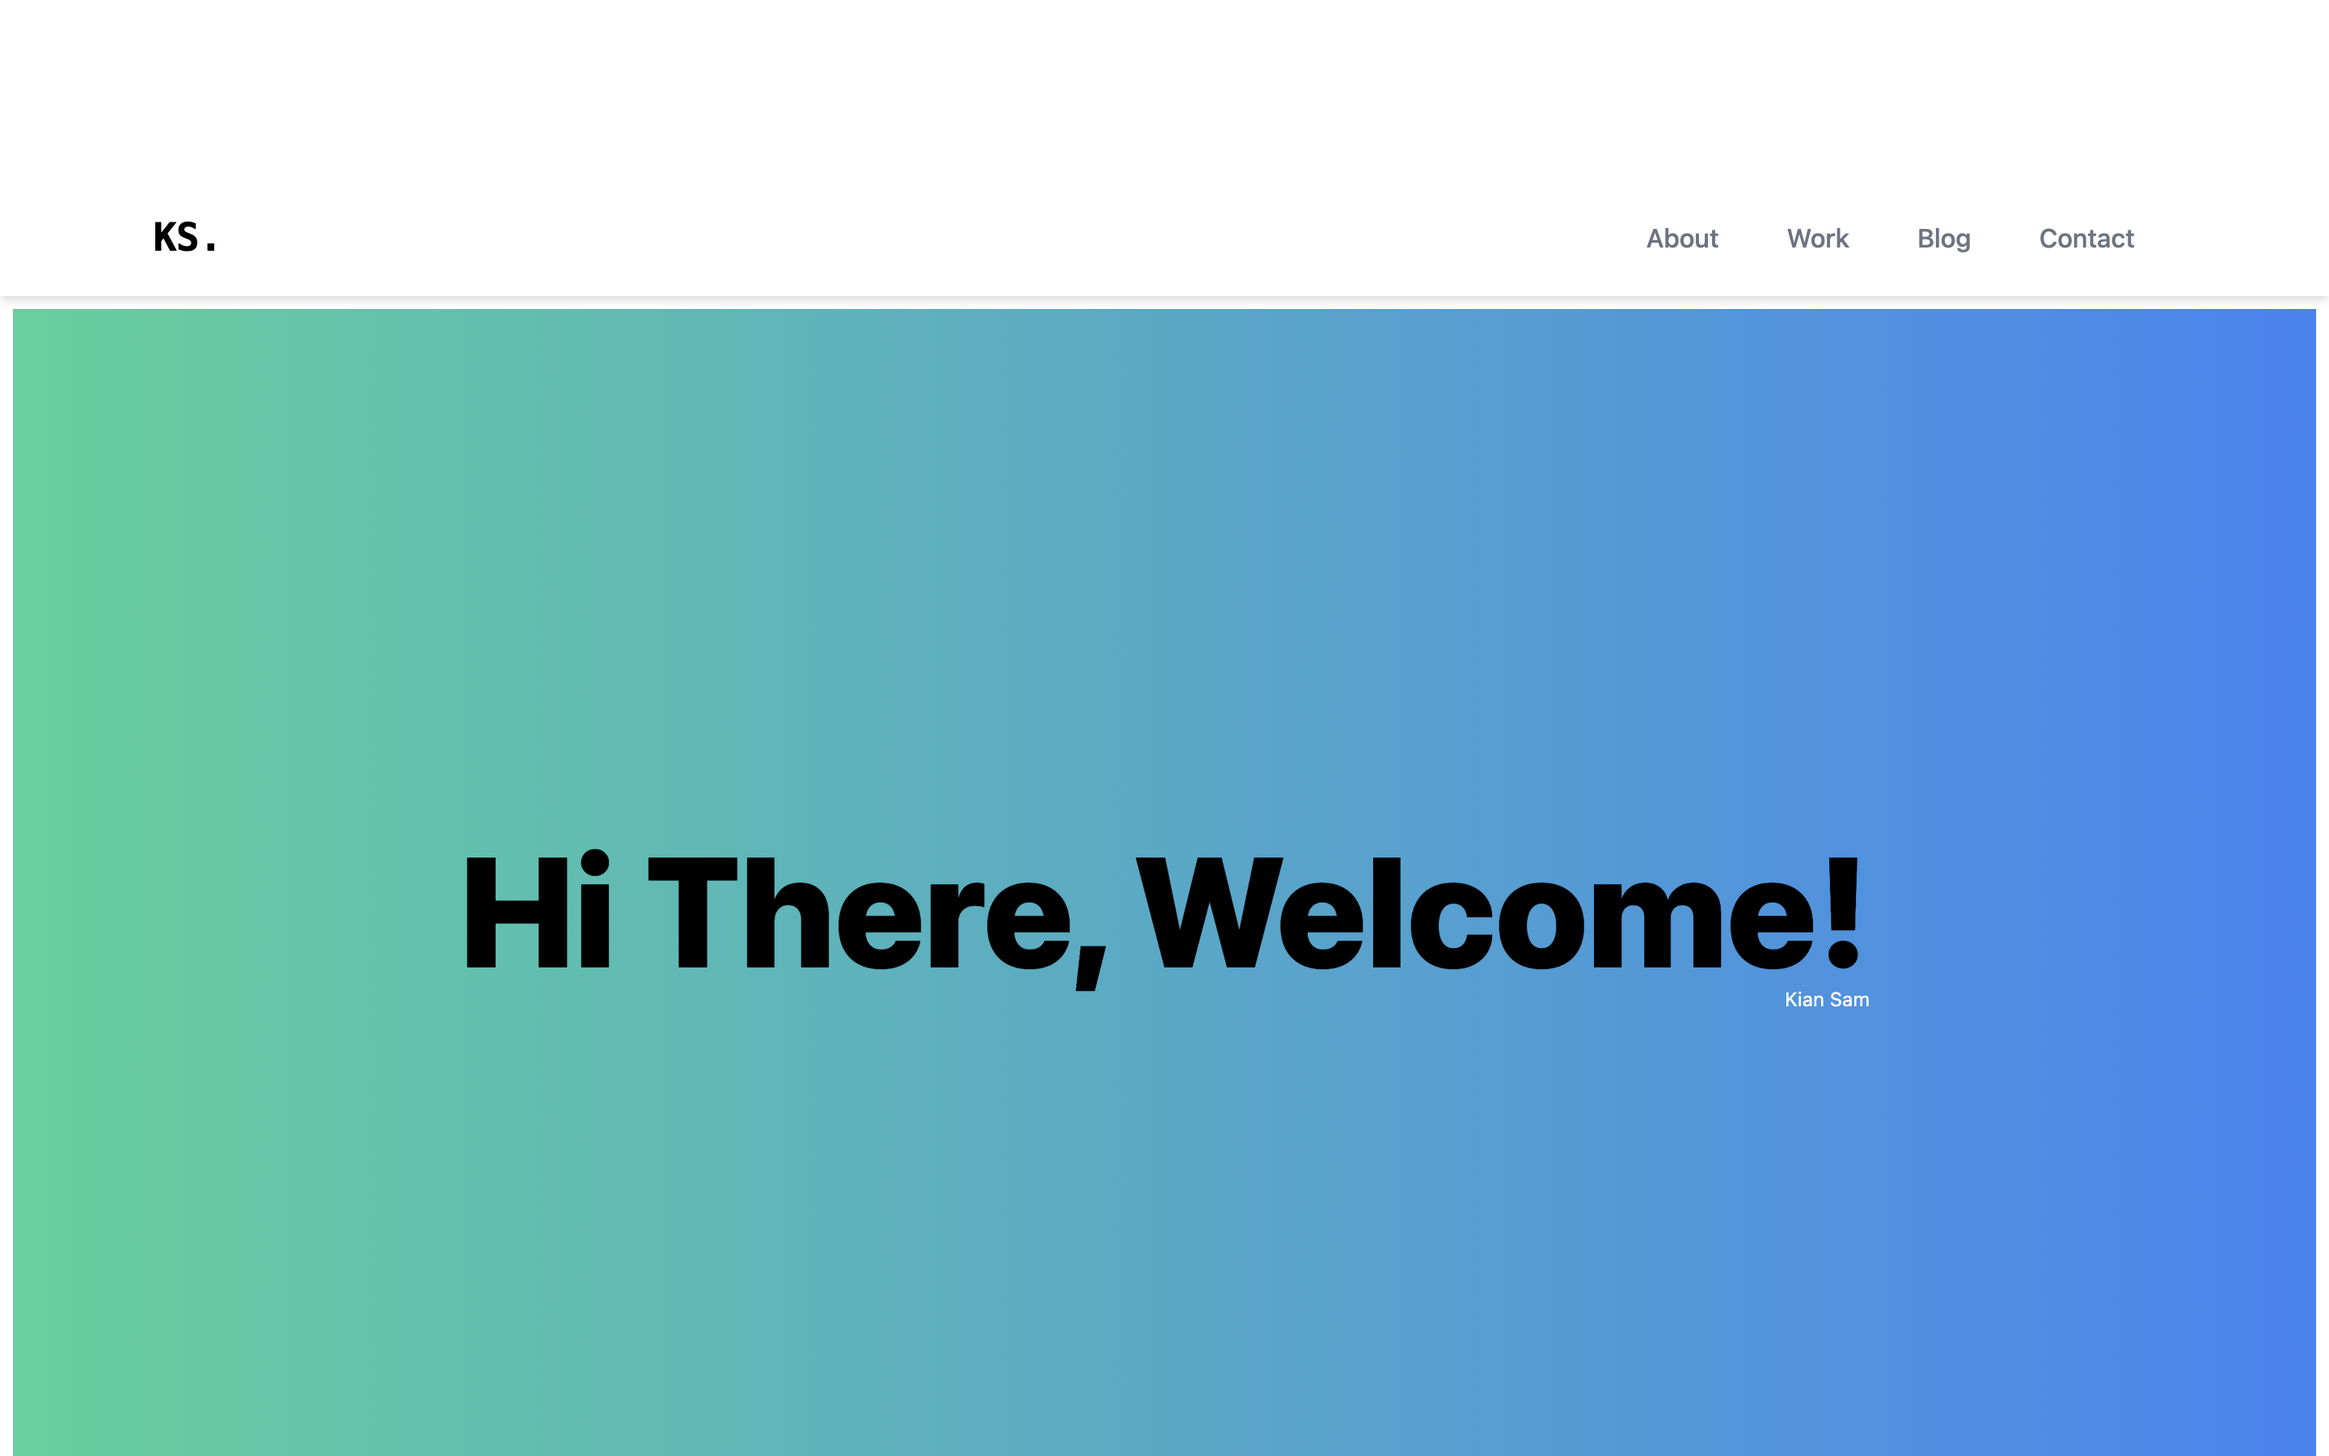
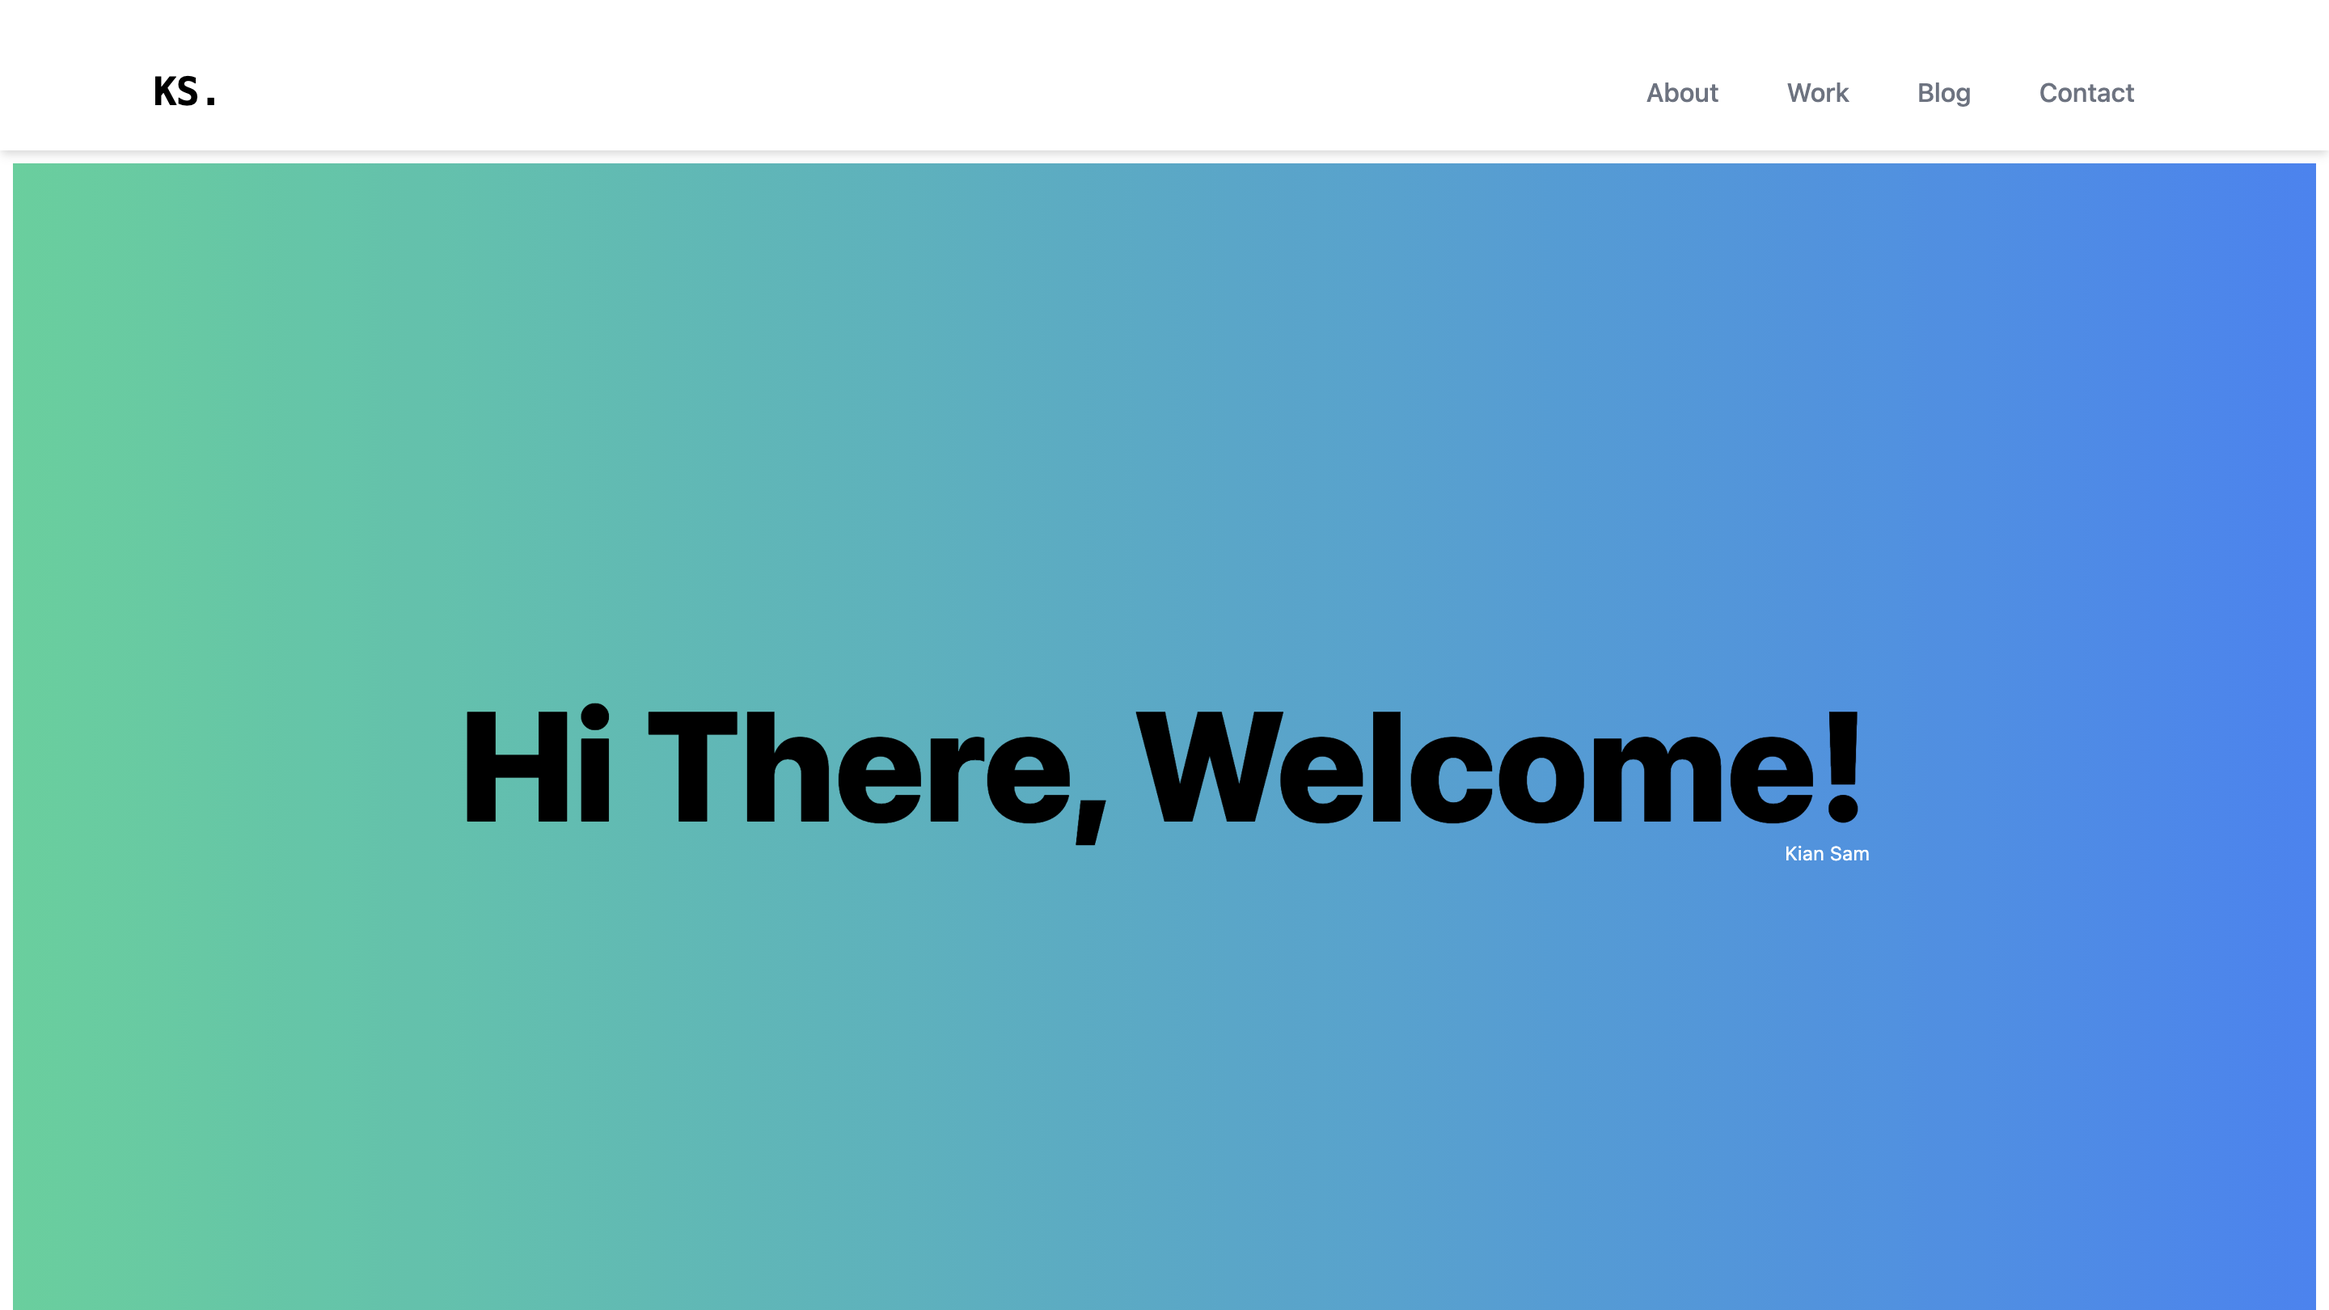
Image fixed

diff --git a/components/Work.js b/components/Work.js
@@ -2,10 +2,11 @@ import ProjectsLeft from "./ProjectsLeft";
 import ProjectsRight from "./ProjectsRight";
 import Fade from "react-reveal/Fade";
 import Projects from "./Projects";
+import Projects1 from "./Projects1";
 
 function WorkComponent() {
   return (
-    <div className=" py-6 bg-gray-50 justify-center bg-back-svg mx-auto mx-2">
+    <div className=" py-6 bg-gray-50 justify-center bg-back-svg mx-2">
       <div className="block justify-center">
         <div className="my-10">
           <h1 className="text-center text-4xl font-bold font-mono">
@@ -15,7 +16,7 @@ function WorkComponent() {
       </div>
       <div className="lg:hidden my-12">
         <Fade left ssrFadeout duration={1000}>
-          <div className="pb-10">
+          <div className="pb-6">
             <ProjectsLeft
               name={"Spotify Home-page Clone"}
               desc={
@@ -31,7 +32,7 @@ function WorkComponent() {
           </div>
         </Fade>
         <Fade right ssrFadeout duration={1000}>
-          <div className="flex justify-end pb-10">
+          <div className="flex justify-end pb-6">
             <ProjectsRight
               name={"Hulu/Imdb Clone"}
               desc={
@@ -47,11 +48,11 @@ function WorkComponent() {
           </div>
         </Fade>
         <Fade left ssrFadeout duration={1000}>
-          <div className="pb-10">
+          <div className="pb-6">
             <ProjectsLeft
               name={"Disney-Plus Clone"}
               desc={
-                "Responsive Disney plus clone, using Reactjs, Styled-components, and Firebase"
+                "Responsive Disney plus clone, using Reactjs, Styled-components,Firestore, and Firebase."
               }
               src={"/images/Disney.png"}
               color={"bg-transparent"}
@@ -63,7 +64,7 @@ function WorkComponent() {
           </div>
         </Fade>
         <Fade right ssrFadeout duration={1000}>
-          <div className="flex justify-end pb-10">
+          <div className="flex justify-end pb-6">
             <ProjectsRight
               name={"My Portfolio"}
               desc={
@@ -79,6 +80,13 @@ function WorkComponent() {
           </div>
         </Fade>
       </div>
+
+
+
+      {/* a */}
+
+
+
       <div className="hidden lg:block my-12 mx-auto justify-center w-[50%]">
         <Fade left ssrFadeout duration={1500}>
           <div className="flex pb-5 justify-start">
@@ -97,7 +105,7 @@ function WorkComponent() {
 
         <Fade right ssrFadeout duration={1500}>
           <div className="flex pb-5 justify-end">
-            <Projects
+            <Projects1
               name={"Hulu/Imdb Clone"}
               desc={
                 "Responsive Hulu/Imdb Clone, made using Nextjs, and tailwindcss. (themoviedb)"
@@ -125,7 +133,7 @@ function WorkComponent() {
         </Fade>
         <Fade right ssrFadeout duration={1500}>
           <div className="flex pb-5 justify-end">
-            <Projects
+            <Projects1
               name={"My Portfolio"}
               desc={
                 "Responsive portfolio made using, Nextjs, Tailwindcss, and react-reveal."

diff --git a/components/Footer.js b/components/Footer.js
@@ -74,6 +74,7 @@ function Footer() {
                   <a
                     className="hover:text-white hover:underline transition-colors duration-200"
                     target="_blank"
+                    rel="noreferrer"
                   >
                     Instagram
                   </a>
@@ -84,6 +85,7 @@ function Footer() {
                   <a
                     className="hover:text-white hover:underline transition-colors duration-200"
                     target="_blank"
+                    rel="noreferrer"
                   >
                     Linked In
                   </a>
@@ -94,6 +96,7 @@ function Footer() {
                   <a
                     className="hover:text-white hover:underline transition-colors duration-200"
                     target="_blank"
+                    rel="noreferrer"
                   >
                     Twitter
                   </a>
@@ -104,6 +107,7 @@ function Footer() {
                   <a
                     className="hover:text-white hover:underline transition-colors duration-200"
                     target="_blank"
+                    rel="noreferrer"
                   >
                     Github
                   </a>
@@ -115,10 +119,10 @@ function Footer() {
       </div>
       <div className="group flex mx-auto text-center justify-center items-center py-2 mt-16 mb-8">
         <Jello ssrFadeout>
-          <h3 className="text-gray-500 text-xs select-none">Made With love </h3>{" "}
+          <h3 className="text-white text-xs select-none">Made With love </h3>{" "}
           <svg
             xmlns="http://www.w3.org/2000/svg"
-            className="h-5 w-5 flex-shrink-0 px-1 group-hover:text-red-700 flex"
+            className="h-5 w-5 flex-shrink-0 px-1 text-white group-hover:text-red-600 flex"
             viewBox="0 0 20 20"
             fill="currentColor"
           >
@@ -128,7 +132,7 @@ function Footer() {
               clipRule="evenodd"
             />
           </svg>
-          <h3 className="text-gray-500 text-xs select-none">
+          <h3 className="text-white text-xs select-none">
             by <i>KianSam</i>.
           </h3>
         </Jello>

diff --git a/components/About.js b/components/About.js
@@ -6,18 +6,16 @@ function AboutComponent() {
     <div className="w-screen py-6 bg-gray-50 justify-center">
       <div className="block justify-center">
         <div className="flex justify-center mb-16">
-          <div className="mt-8 flex items-center justify-center bg-gradient-to-b from-purple-500 via-pink-500 to-blue-400 rounded-full w-[96px] h-[96px]">
-            <div className="bg-white rounded-full p-[5px]">
-              <img
-                src="/images/1.png"
-                className="rounded-full flex"
-                alt="Me"
-                width="80"
-                height="80"
-              />
-            </div>
+          <div className="mt-8 flex items-center justify-center rounded-full w-[96px] h-[96px] p-[1px] border-[4px] border-blue-400">
+            <Image
+              src="/images/1.png"
+              className="rounded-full"
+              alt="Me"
+              width={80}
+              height={80}
+            />
           </div>
-          <span className="mx-auto absolute translate-y-[134px] text-center font-medium text-xl mt-1">
+          <span className="mx-auto absolute translate-y-[134px] text-center font-medium text-xl mt-1 mb-1">
             Kian Sam
           </span>
         </div>
@@ -25,9 +23,9 @@ function AboutComponent() {
           <p className="text-center">
             I'm a Frontend web developer, Social Media Manager, and content
             creator. I've been coding for over 3 years now. I'm currently
-            working part-time as a social media manager for a HVAC company. I know
-            three languages, English, Persian, and Turkish professionally, and
-            I'm learning Dutch right now.
+            working part-time as a social media manager for a HVAC company. I
+            know three languages, English, Persian, and Turkish professionally,
+            and I'm learning Dutch right now.
           </p>
           <div className="flex justify-center mx-auto mt-6">
             <hr className="w-80 black" />

diff --git a/components/Projects1.js b/components/Projects1.js
@@ -1,30 +1,28 @@
 import Link from "next/link";
 import Image from "next/image";
 
-function ProjectsRight({ name, src, desc, color, hover, border }) {
+function Projects1({ name, src, desc, color, hover, border }) {
   return (
-    <div className="w-[70%] xs:w-[65%] sm:w-[50%] py-5 border-[1px] border-black border-r-0 px-6 shadow-md rounded-lg translate-x-[2px] md:translate-x-0  hover:shadow-2xl bg-white">
+    <div className="w-[350px] xl:w-[450px] py-4 border-[1px] border-black  px-4 shadow-md rounded-lg transition-all duration-75 ease-in-out hover:shadow-2xl bg-white">
       <h1 className="flex-1 text-lg mx-auto justify-center font-medium pb-1">
         {name}
       </h1>
       <div className="flex m-1">
-        <div className="flex flex-col">
-          <Image
-            className="justify-start"
-            src={`${src}`}
-            alt="Project"
-            height={220}
-            width={360}
-          />
-        </div>
+        <Image
+          className="justify-start"
+          src={`${src}`}
+          alt="Project"
+          height={220}
+          width={360}
+        />
         <p
           className="items-center my-auto
-         justify-end p-[4px] pl-[12px] text-sm"
+         justify-end p-[4px] pl-[6px] text-sm"
         >
           {desc}
         </p>
       </div>
-      {/* <div className="flex justify-start ml-[20px] mt-1 xs:mt-1 sm:mt-3">
+      <div className="flex justify-start ml-[10px] xl:ml-[32px] mt-1 xs:mt-1 sm:mt-3">
         <Link href="https://github.com/kiansam">
           <a target="_blank" rel="noreferrer">
             <button
@@ -34,9 +32,9 @@ function ProjectsRight({ name, src, desc, color, hover, border }) {
             </button>
           </a>
         </Link>
-      </div> */}
+      </div>
     </div>
   );
 }
 
-export default ProjectsRight;
+export default Projects1;

diff --git a/components/Blog.js b/components/Blog.js
@@ -8,23 +8,25 @@ function Blog() {
         <h1 className="flex justify-center text-center text-4xl font-bold font-mono mb-12">
           Blog
         </h1>
-        <div className="mb-8">
-          <Blogcomponent
-            title={"Road to become a Web Developer"}
-            desc={
-              "HTML, CSS, and Javascript are the musts in Web Developement. So every Web Developer must have a basic understanding of HTML, CSS, and JavaScript. When you feel... "
-            }
-            link={"blog/first"}
-          />
-        </div>
-        <div>
-          <Blogcomponent
-            title={"Road to become a Web Developer"}
-            desc={
-              "HTML, CSS, and Javascript are the musts in Web Developement. So every Web Developer must have a basic understanding of HTML, CSS, and JavaScript. When you feel... "
-            }
-            link={"blog/second"}
-          />
+        <div className="mx-2">
+          <div className="mb-8">
+            <Blogcomponent
+              title={"Road to become a Web Developer"}
+              desc={
+                "HTML, CSS, and Javascript are the musts in Web Developement. So every Web Developer must have a basic understanding of HTML, CSS, and JavaScript. When you feel... "
+              }
+              link={"blog/first"}
+            />
+          </div>
+          <div>
+            <Blogcomponent
+              title={"Road to become a Web Developer"}
+              desc={
+                "HTML, CSS, and Javascript are the musts in Web Developement. So every Web Developer must have a basic understanding of HTML, CSS, and JavaScript. When you feel... "
+              }
+              link={"blog/second"}
+            />
+          </div>
         </div>
       </div>
     </div>

diff --git a/components/ProjectsLeft.js b/components/ProjectsLeft.js
@@ -3,7 +3,7 @@ import Link from "next/link";
 
 function ProjectsLeft({ name, src, desc, color, hover, border }) {
   return (
-    <div className="w-[70%] xs:w-[65%] sm:w-[55%] py-4 border-[1px] border-black border-l-0 px-4 shadow-md rounded-lg -translate-x-[2px] transition-all duration-75 ease-in-out hover:shadow-2xl bg-white">
+    <div className="w-[70%] xs:w-[65%] sm:w-[50%] py-4 border-[1px] border-black border-l-0 px-4 shadow-md rounded-lg -translate-x-[2px] transition-all duration-75 ease-in-out hover:shadow-2xl bg-white">
       <h1 className="flex-1 text-lg mx-auto justify-center font-medium pb-1">
         {name}
       </h1>
@@ -14,11 +14,19 @@ function ProjectsLeft({ name, src, desc, color, hover, border }) {
         >
           {desc}
         </p>
-        <img className="h-20 justify-end" src={src} alt="Project" />
+        <div className="flex flex-col">
+          <Image
+            className="justify-end"
+            src={`${src}`}
+            alt="Project"
+            height={220}
+            width={360}
+          />
+        </div>
       </div>
-      <div className="flex justify-end mr-[11px] mt-1 xs:mt-1 sm:mt-3">
+      {/* <div className="flex justify-end mr-[20px] mt-2 xs:mt-1 sm:mt-3">
         <Link href="https://github.com/kiansam">
-          <a target="_blank">
+          <a target="_blank" rel="noreferrer">
             <button
               className={`transition-colors w-28 h-8 rounded-xl text-sm border-[1px] ${border} ${color} ${hover}`}
             >
@@ -26,7 +34,7 @@ function ProjectsLeft({ name, src, desc, color, hover, border }) {
             </button>
           </a>
         </Link>
-      </div>
+      </div> */}
     </div>
   );
 }

diff --git a/components/Projects.js b/components/Projects.js
@@ -1,4 +1,5 @@
 import Link from "next/link";
+import Image from "next/image";
 
 function Projects({ name, src, desc, color, hover, border }) {
   return (
@@ -13,11 +14,17 @@ function Projects({ name, src, desc, color, hover, border }) {
         >
           {desc}
         </p>
-        <img className="h-20 justify-end" src={src} alt="Project" />
+        <Image
+          className="justify-end"
+          src={`${src}`}
+          alt="Project"
+          height={220}
+          width={360}
+        />{" "}
       </div>
-      <div className="flex justify-end mr-[11px] mt-1 xs:mt-1 sm:mt-3">
+      <div className="flex justify-end mr-[8px] xl:mr-[28px] mt-1 xs:mt-1 sm:mt-3">
         <Link href="https://github.com/kiansam">
-          <a target="_blank">
+          <a target="_blank" rel="noreferrer">
             <button
               className={`transition-colors w-28 h-8 rounded-xl text-sm border-[1px] ${border} ${color} ${hover}`}
             >

diff --git a/components/Skills.js b/components/Skills.js
@@ -4,7 +4,7 @@ import Wave from "react-wavify";
 
 function Skills({ title, color, width }) {
   return (
-    <Fade bottom ssrFadeout duration={1500}>
+    <Fade bottom ssrFadeout duration={1000}>
       <div className="w-[70%] md:w-[60%] mx-auto shadow-md rounded-lg bg-gray-100 p-6 my-8 hover:shadow-xl transform transition-all duration-200 z-50">
         <div className="flex flex-col my-auto mx-auto">
           <span className="pb-2">{title}</span>

diff --git a/components/Navbar.js b/components/Navbar.js
@@ -39,7 +39,7 @@ function Navbar({ toggle }) {
 
       {/* Right Side */}
       <div className="justify-end flex-grow flex md:px-1">
-        <Fade right ssrFadeout>
+        <Fade right ssrFadeout duration={1000}>
           <div className="hidden md:flex">
             <div className="block space-x-6 lg:space-x-0.5 items-center select-none">
               <Link href="about">
